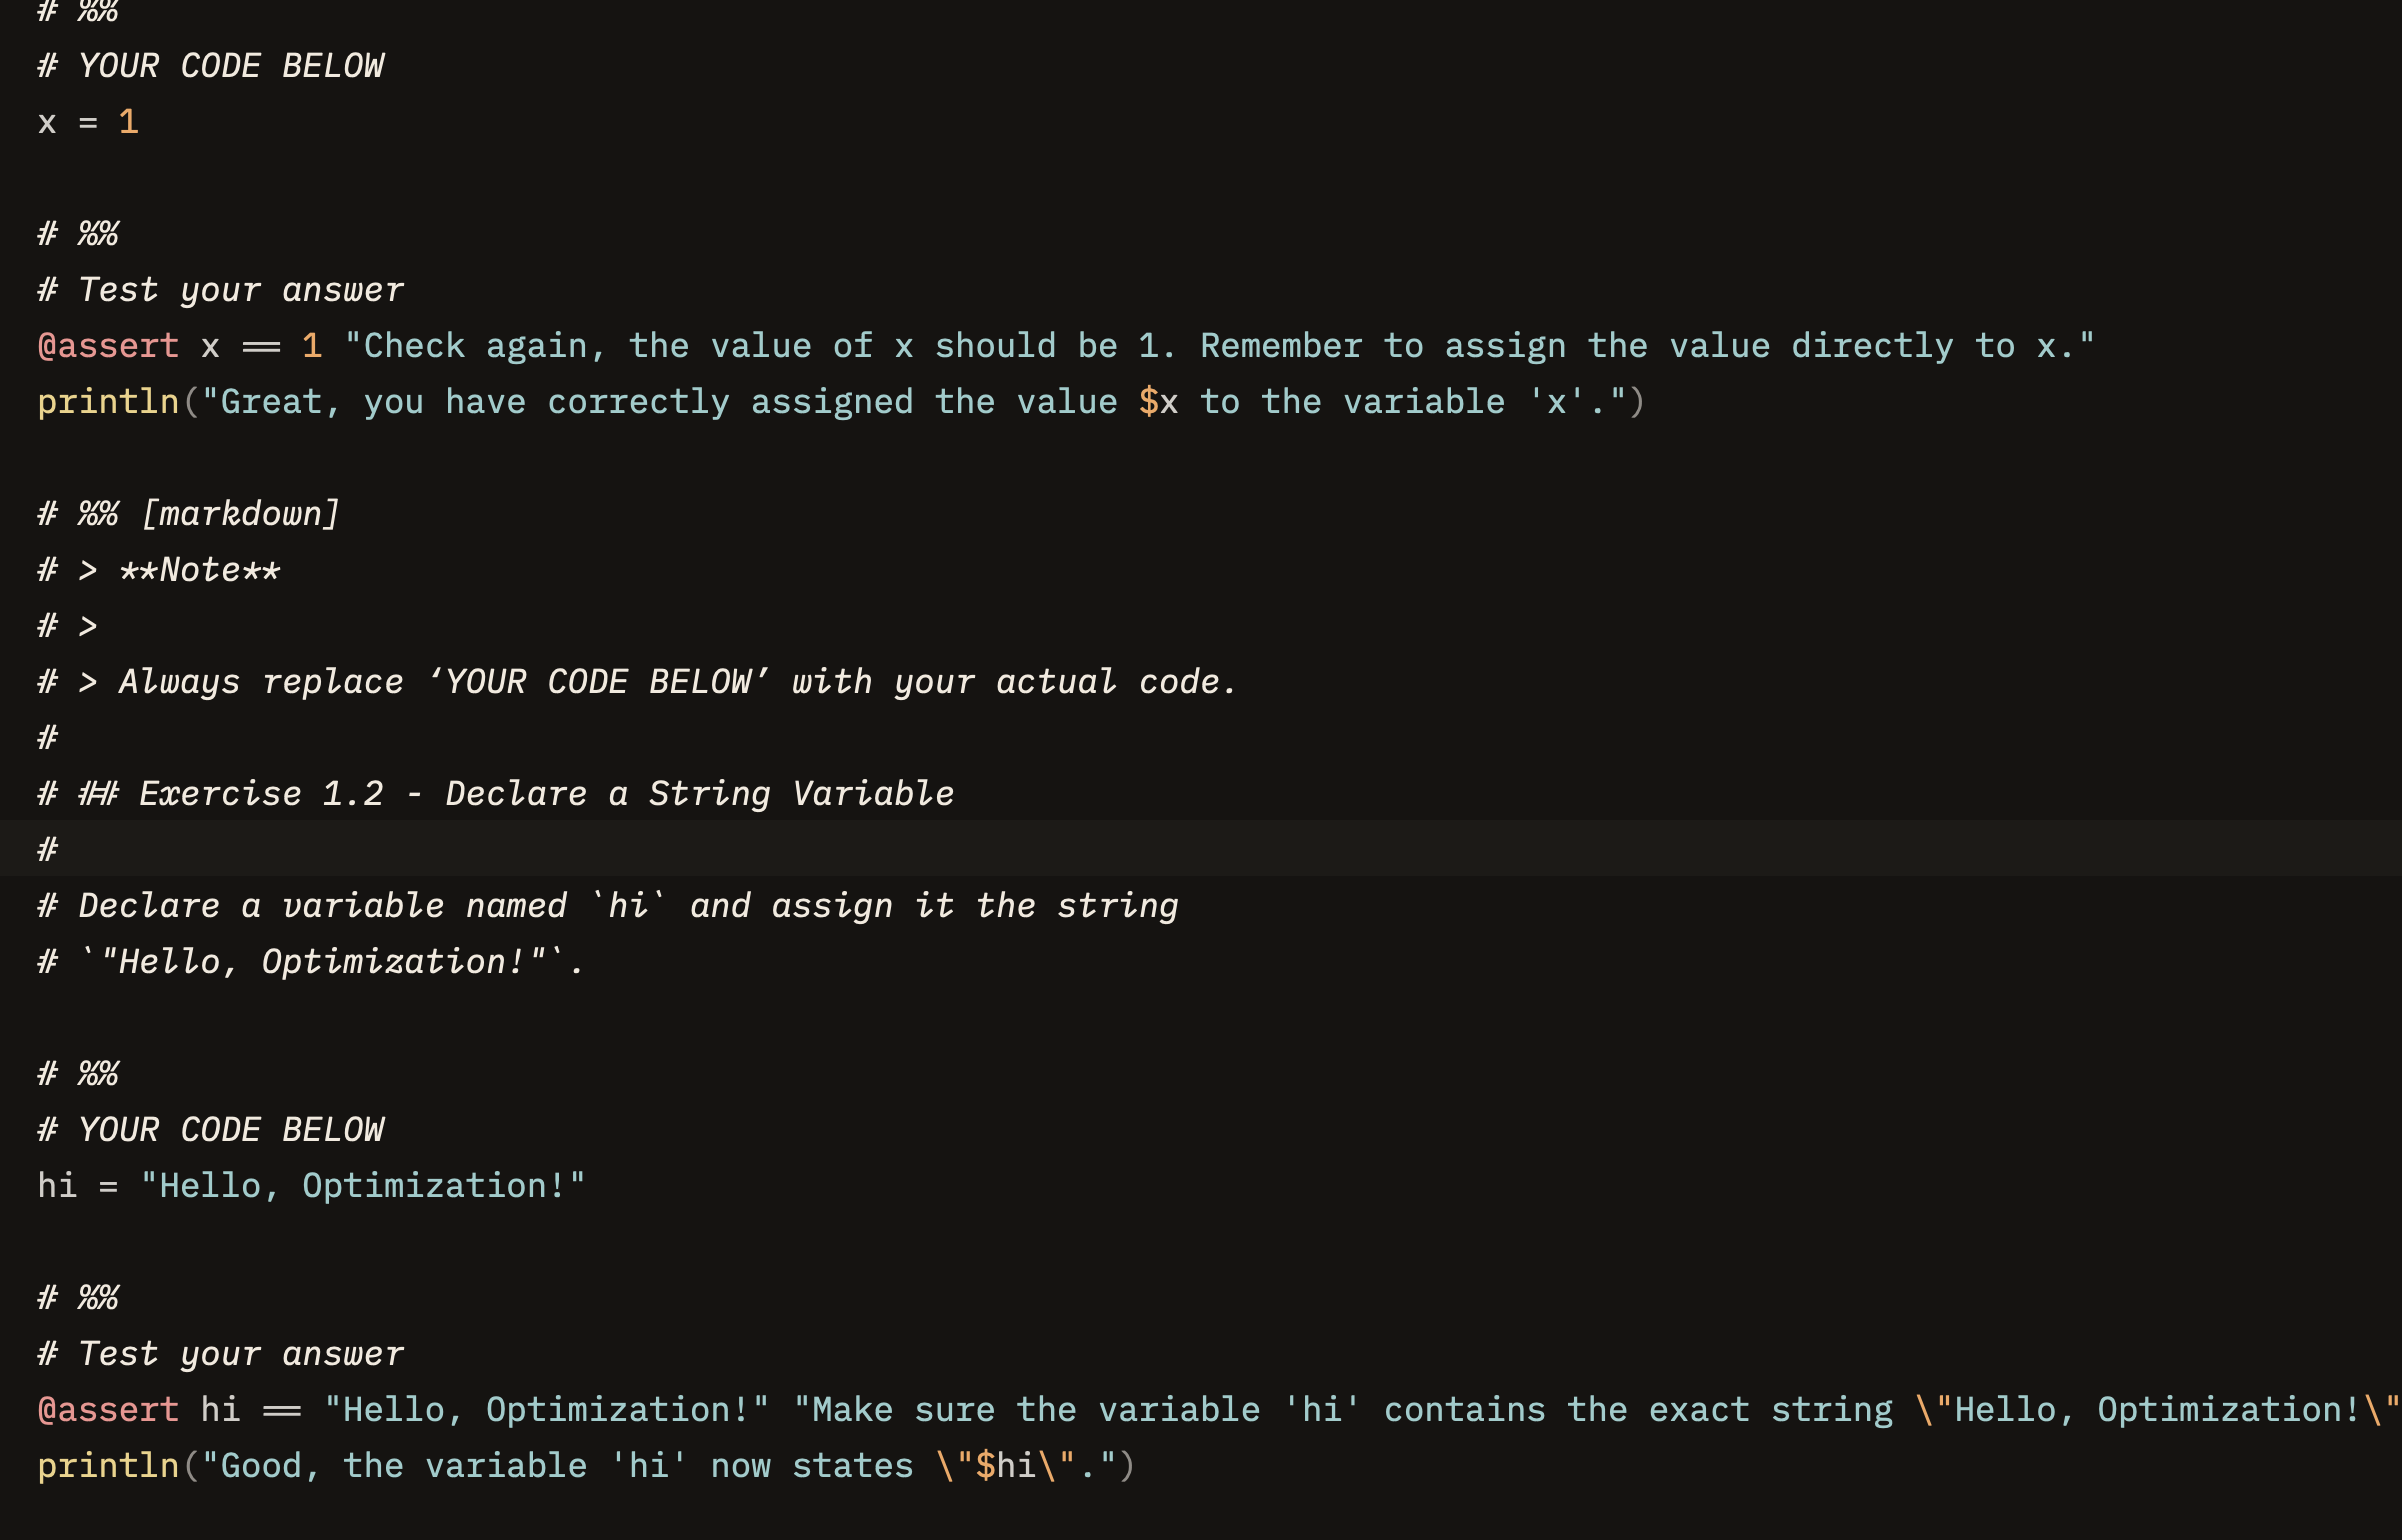
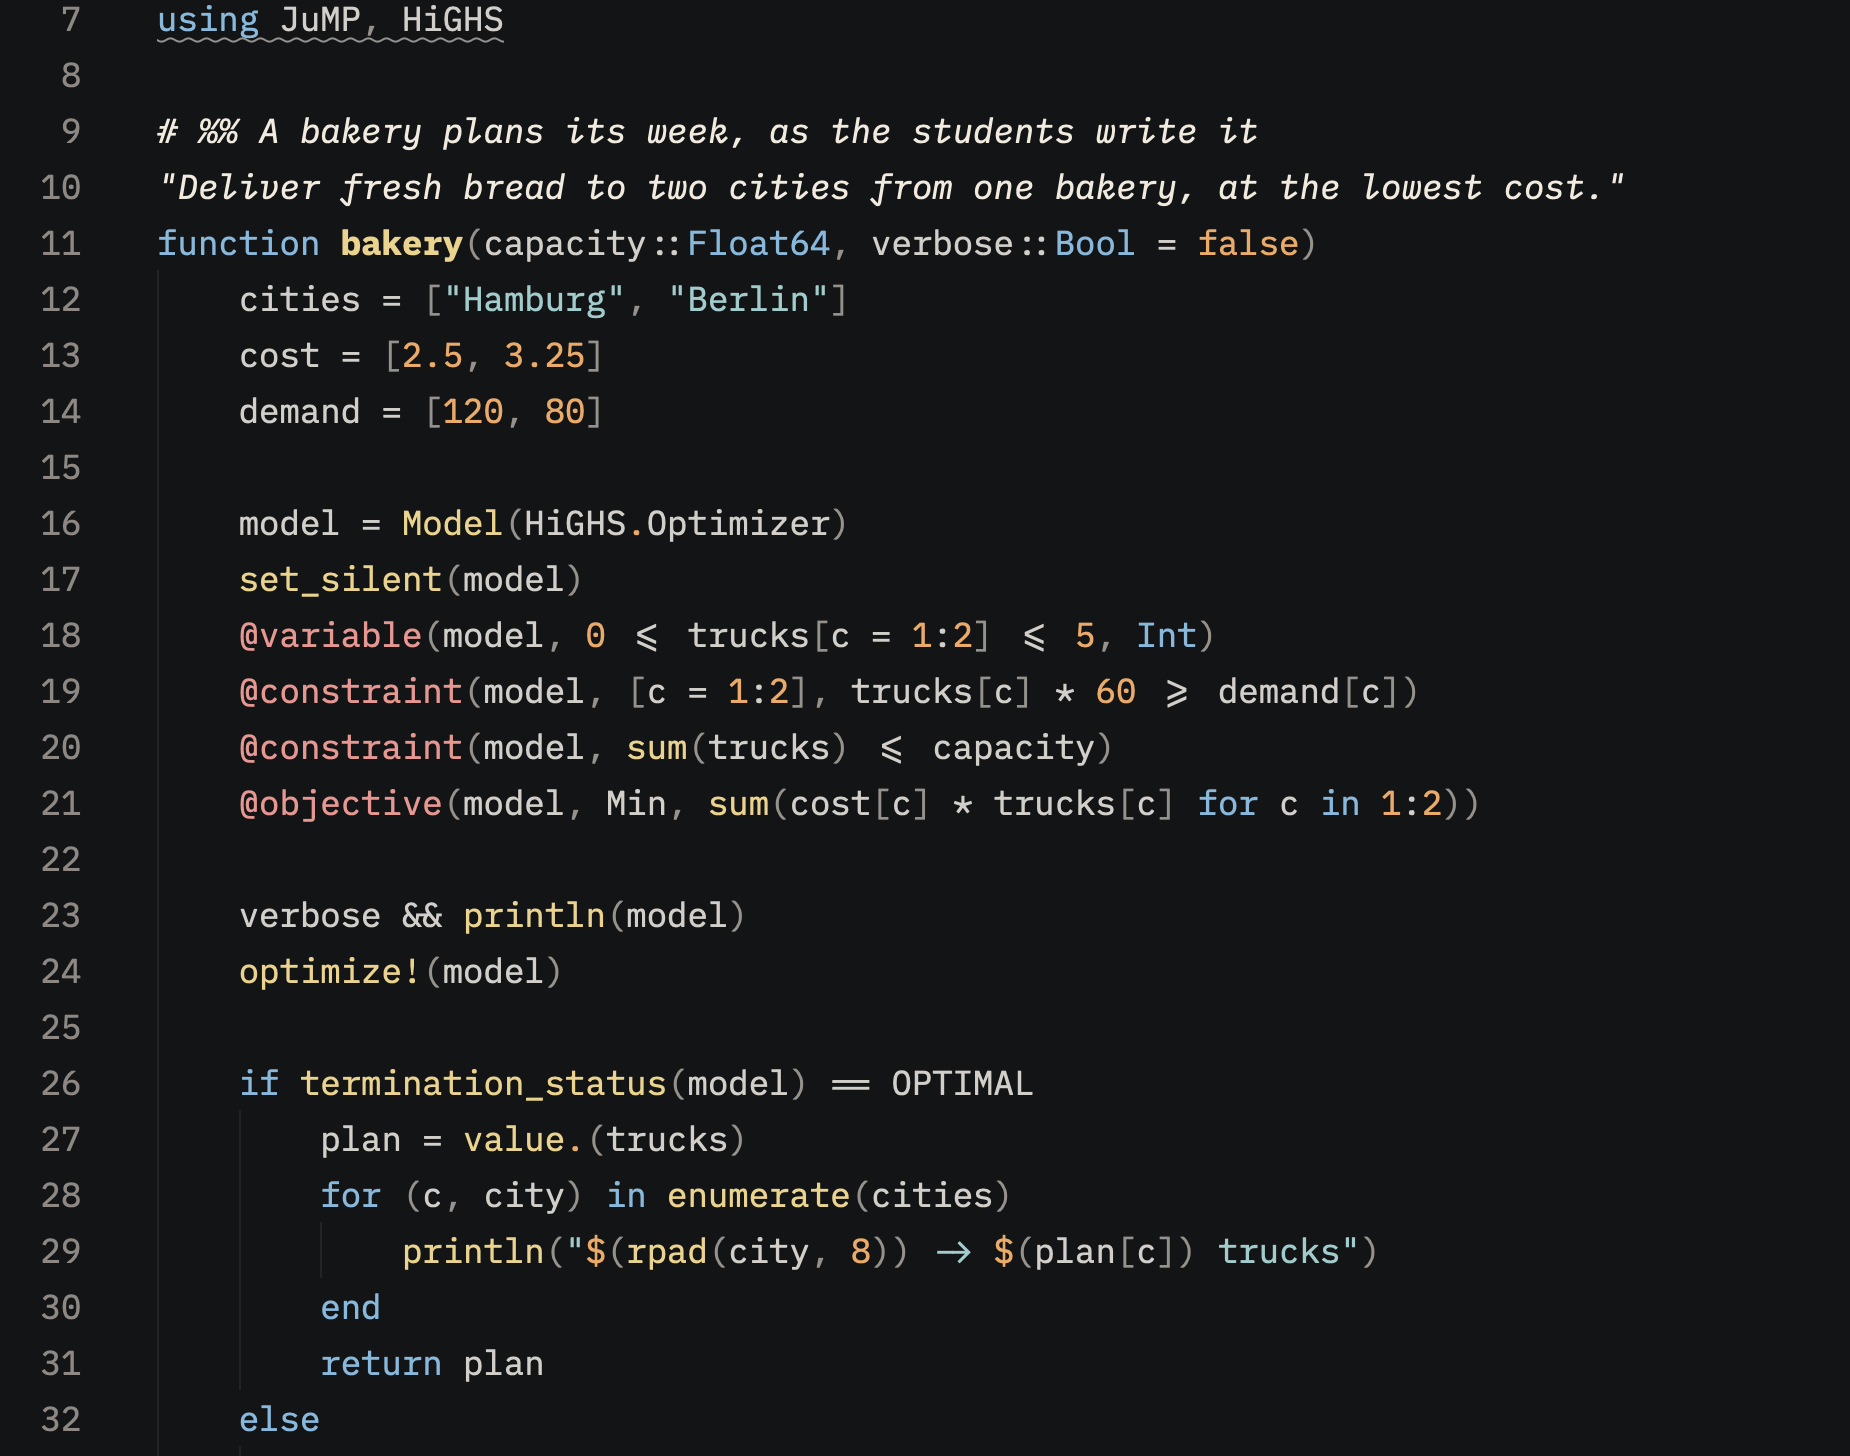
README screenshot: the showcase model on the cool ink

diff --git a/README.md b/README.md
@@ -5,7 +5,7 @@ the comments read like the page, the code sits underneath in soft colours.
 **Paper & Ink Dark** puts paper-white comments on deep ink; **Paper & Ink Light**
 puts ink comments on paper.
 
-![Paper & Ink with a Julia tutorial](screenshot.png)
+![Paper & Ink Dark with the showcase JuMP model](screenshot.png)
 
 Most themes grey out comments. In tutorials and notebooks in percent format
 (`# %%` cells), the comments are the instructions, so Paper & Ink gives them the
